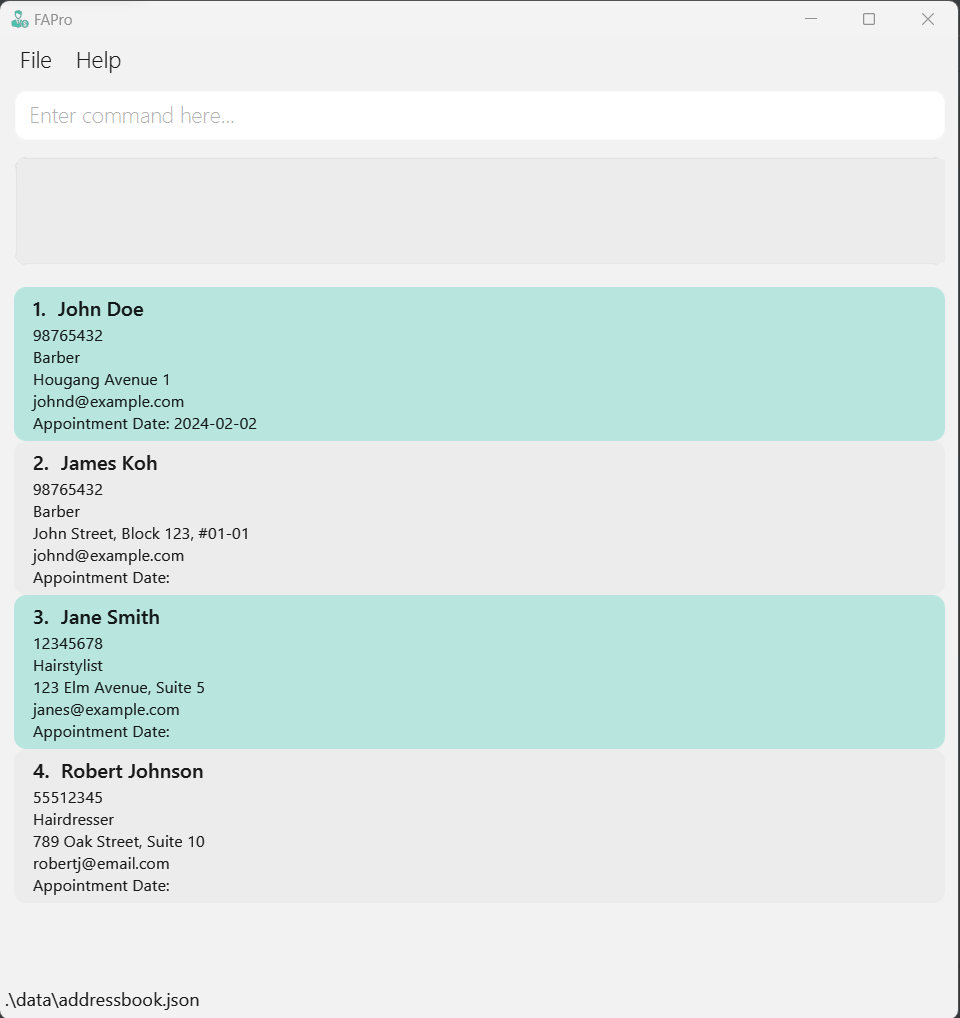
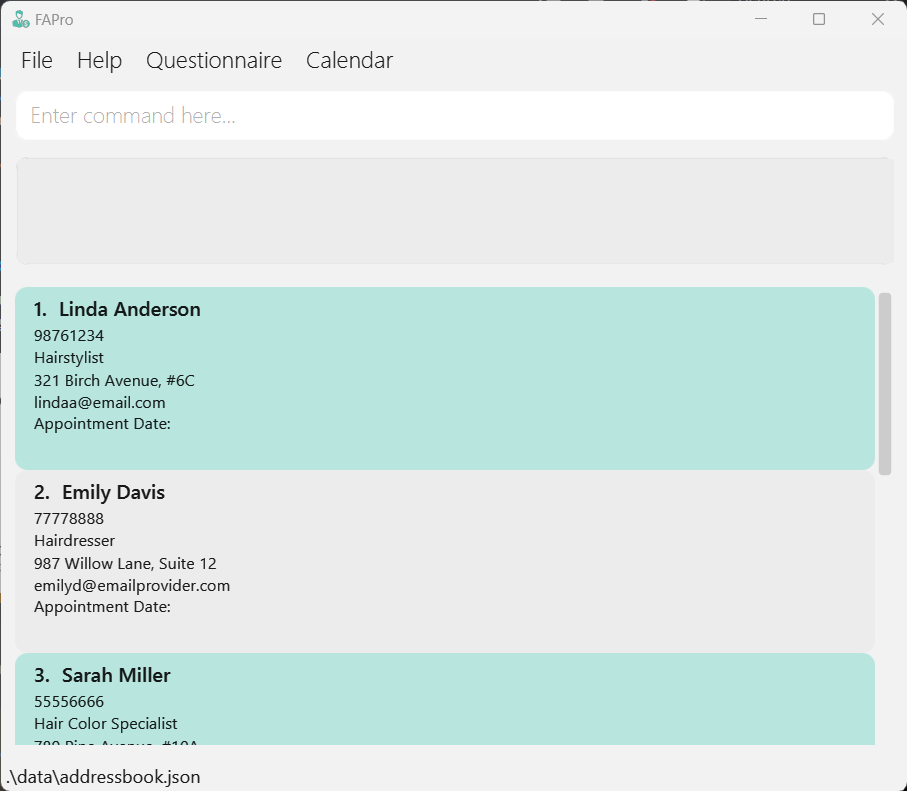
Update index.md, UG and Ui.png

diff --git a/docs/UserGuide.md b/docs/UserGuide.md
@@ -78,14 +78,14 @@ A pop-up of a new window that lists out all the main commands with their respect
 
 Adds a new entry to their address book for financial advisors, including personal details such as name, address, occupation, phone number and email.
 
-Format:
+#### Format:
 * `add n/NAME p/PHONE_NUMBER e/EMAIL o/OCCUPATION a/ADDRESS [t/TAG]…`
 
-Example commands:
+#### Example commands:
 * `add n/John Doe p/98765432 e/johnd@example.com o/Barber a/John Street, Block 123, #01-01`
 * `add n/Betsy Crowe t/Friend e/betsycrowe@example.com o/Entrepreneur a/Newgate Prison p/1234567 t/Criminal`
 
-Acceptable values for each parameter:
+#### Acceptable values for each parameter:
 * Name: Valid string name.
 * Address: Valid string address. Contains postal code. (8 College Ave West, Singapore 138608).
 * Phone number: Valid string and phone number format (81234567).
@@ -99,23 +99,24 @@ A person can have any number of tags (including 0)
 
 ![edit format](images/addformat.png)
 
-Precise expected outputs on success:
+#### Precise expected outputs on success:
 * Successful addition message. ‘New Person added: X ’, where X are the details of the person added.
 * For example, for Robert Johnson (the example command), it would be: “New person added: Robert Johnson; Phone: 55512345; Email: robertj@email.com; Occupation: Hairdresser; Address: 789 Oak Street, Suite 10; AppointmentDate: ; Tags: “. Please note that both Appointment Date and Tags are empty as they are not necessary for adding a person.
 * The new entry is displayed in the address book GUI.
 
 ![edit format](images/addresult.png)
 
-* Precise expected outputs on failure:
-* If a required parameter is missing (e.g., name, email), an error message should specify which parameter is missing.
+#### Precise expected outputs on failure:
+
+If a required parameter is missing (e.g., name, email), an error message should specify which parameter is missing.
 
 ![edit format](images/addmissingparam.png)
 
-* If a parameter is provided in an invalid format (e.g., an invalid email address), an error message should indicate the invalid format.
+If a parameter is provided in an invalid format (e.g., an invalid email address), an error message should indicate the invalid format.
 
 ![edit format](images/addinvalidemail.png)
 
-* If a parameter is specified multiple times (e.g., --name John --name Doe), an error should indicate that the parameter can only be specified once.
+If a parameter is specified multiple times (e.g., --name John --name Doe), an error should indicate that the parameter can only be specified once.
 
 ![edit format](images/addduplicateparam.png)
 

diff --git a/docs/index.md b/docs/index.md
@@ -1,19 +1,23 @@
 ---
 layout: page
-title: AddressBook Level-3
+title: FAPro
 ---
 
-[![CI Status](https://github.com/se-edu/addressbook-level3/workflows/Java%20CI/badge.svg)](https://github.com/se-edu/addressbook-level3/actions)
-[![codecov](https://codecov.io/gh/se-edu/addressbook-level3/branch/master/graph/badge.svg)](https://codecov.io/gh/se-edu/addressbook-level3)
+[![CI Status](https://github.com/se-edu/addressbook-level3/workflows/Java%20CI/badge.svg)](https://github.com/AY2324S1-CS2103T-W09-1/tp/actions)
+[![codecov](https://codecov.io/gh/se-edu/addressbook-level3/branch/master/graph/badge.svg)](https://app.codecov.io/gh/AY2324S1-CS2103T-W09-1/tp)
 
 ![Ui](images/Ui.png)
 
-**AddressBook is a desktop application for managing your contact details.** While it has a GUI, most of the user interactions happen using a CLI (Command Line Interface).
+**FApro seeks to improve the quality of life of financial advisors (FAs). It allows FAs to keep track of large numbers of contacts**. While it has a GUI, most of the user interactions happen using a CLI (Command Line Interface).
 
-* If you are interested in using AddressBook, head over to the [_Quick Start_ section of the **User Guide**](UserGuide.html#quick-start).
-* If you are interested about developing AddressBook, the [**Developer Guide**](DeveloperGuide.html) is a good place to start.
+## Problem Addressed
+* A lot of contacts
+* Hard to track which clients have existing products and which products
+* Possibly volatile contacts as need to keep up with them over long periods of time
+* Do analytics
+* Provides them with an overview of all possible clients (big-picture)
 
 
 **Acknowledgements**
 
-* Libraries used: [JavaFX](https://openjfx.io/), [Jackson](https://github.com/FasterXML/jackson), [JUnit5](https://github.com/junit-team/junit5)
+* Libraries used: [JavaFX](https://openjfx.io/), [Jackson](https://github.com/FasterXML/jackson), [JUnit5](https://github.com/junit-team/junit5), [CalendarFX](https://github.com/dlsc-software-consulting-gmbh/CalendarFX)
